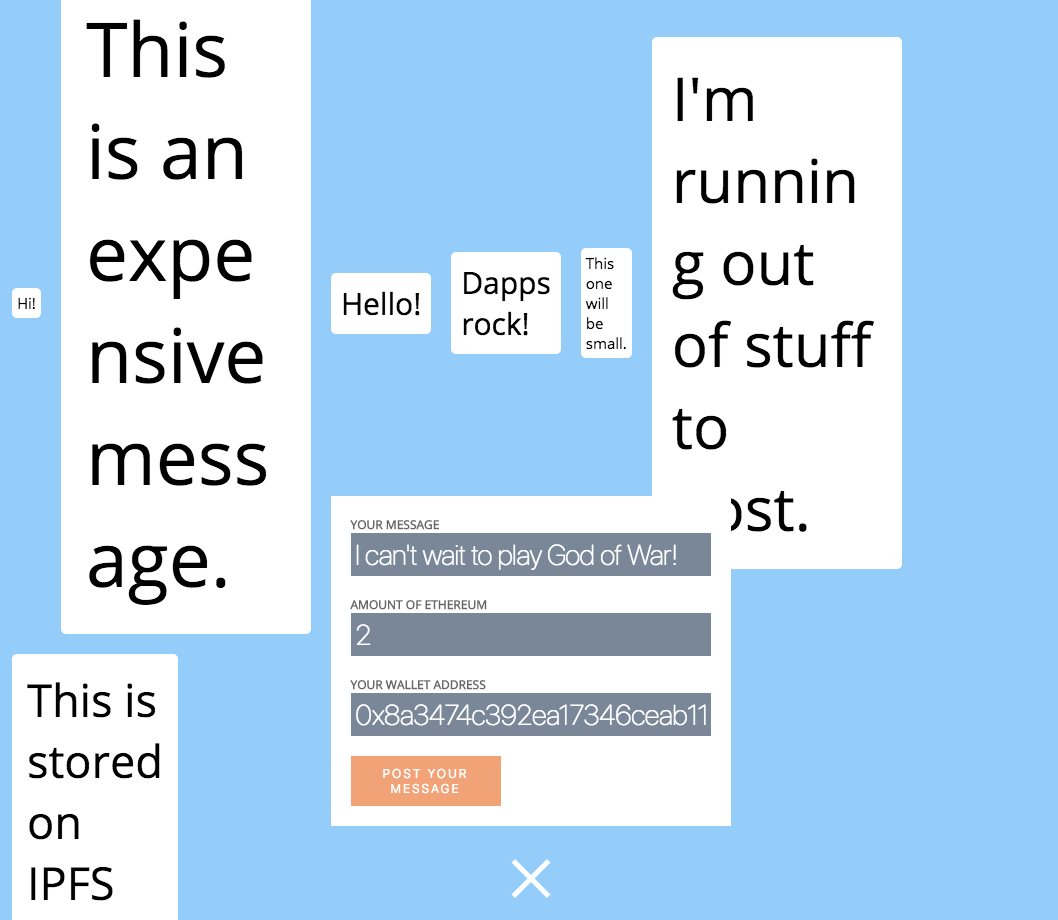
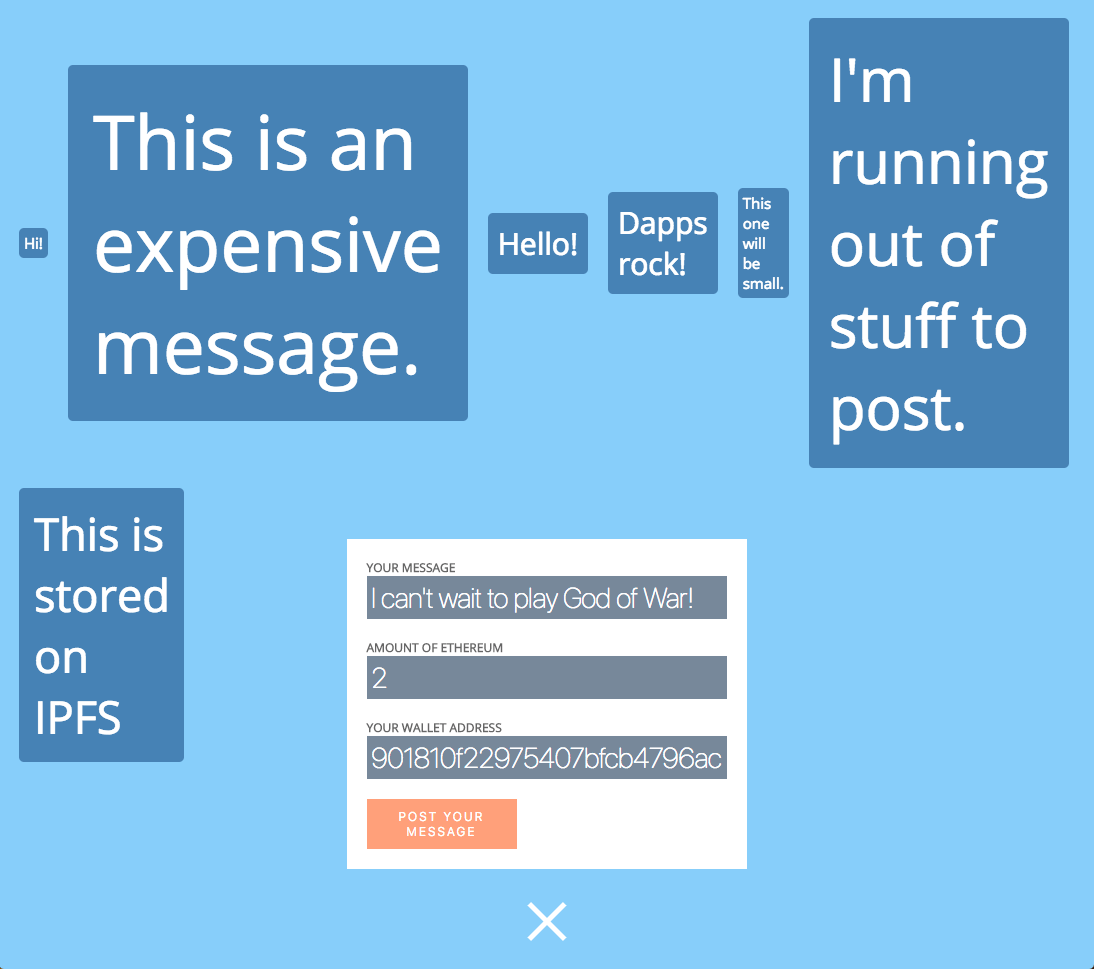
Change styling a bit

diff --git a/pages/components/blocks.js b/pages/components/blocks.js
@@ -5,7 +5,8 @@ import _ from 'lodash'
 const Block = styled.div`
   font-family: Open Sans;
   box-sizing: border-box;
-  background: white;
+  background: steelblue;
+  color: white;
   font-size: ${ ({size}) => size }px;
   display: inline-block;
   transform: translateZ(0);
@@ -16,7 +17,6 @@ const Block = styled.div`
   padding: ${ ({size}) => size / 3 }px;
   border-radius: 5px;
   word-wrap: break-word;
-  max-width: 250px;
   flex: 0;
 
   @keyframes scaleIn {
